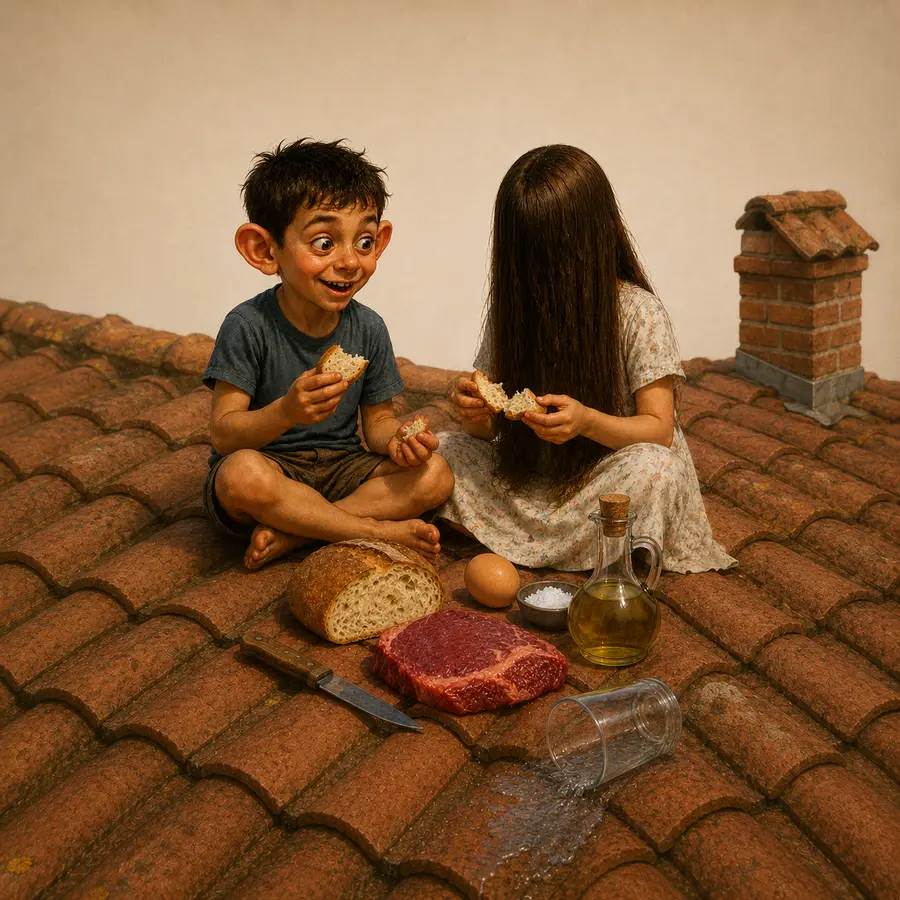
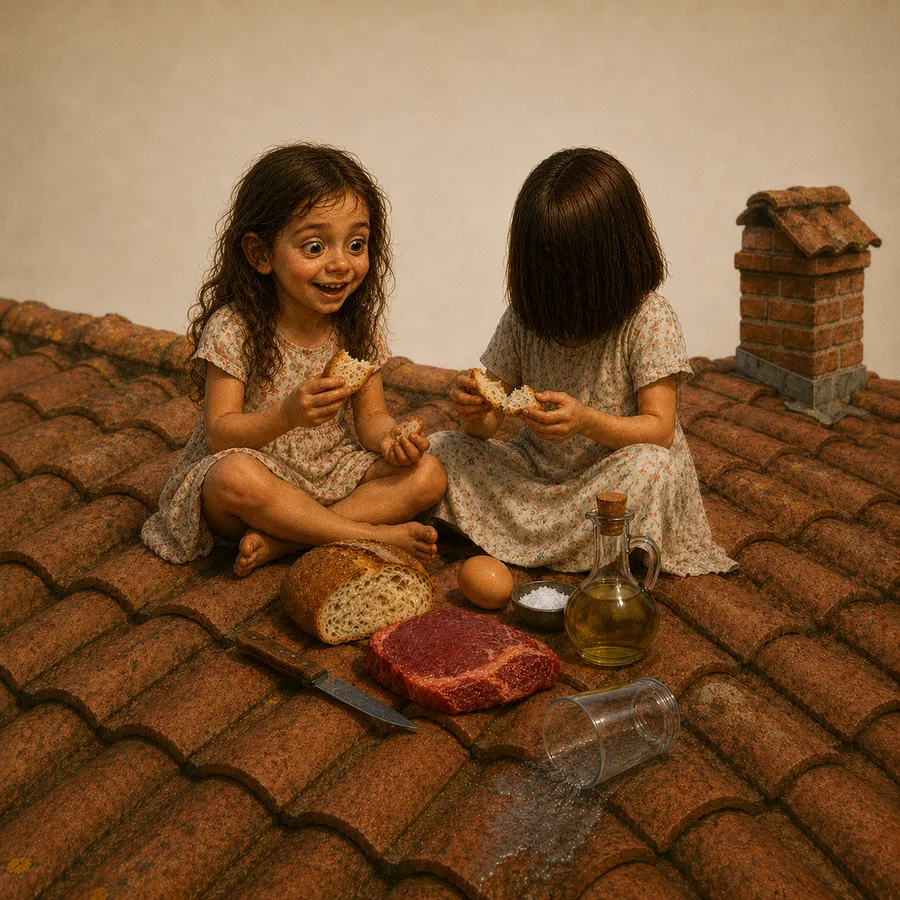
Breakfast scene: new image + "Zwei Mädchen" wording
Replace the rooftop breakfast image (the second child, formerly a boy, is
now clearly a girl so the all-das scene doesn't pull toward der Junge) and
rewrite the narrative as "Zwei Mädchen" — one whose hair hides her face,
the other with big eyes and ears. Drop das Kind (taught in other scenes)
and the "lange" hair descriptor (hair is shorter now). Scene is cleanly
all-das; das Mädchen reinforced.

diff --git a/src/data/scenes.ts b/src/data/scenes.ts
@@ -20,13 +20,12 @@ export const MEMORY_SCENES: MemoryScene[] = [
     title: "Frühstück auf dem Dach",
     image: "/scenes/das-1-dach.webp",
     narrativeDe:
-      "Ein Kind und ein Mädchen frühstücken auf dem Dach. Ein umgekipptes Glas liegt da, und Wasser ist daraus über das Dach verschüttet. Vor ihnen liegen ein Messer, ein frisches Brot, ein Ei, rohes Fleisch mit etwas Blut, Salz und Öl. Das lange Haar des Mädchens verdeckt ihr Gesicht. Das Kind hat große Augen und große Ohren.",
+      "Zwei Mädchen frühstücken auf dem Dach. Ein umgekipptes Glas liegt da, und Wasser ist daraus über das Dach verschüttet. Vor ihnen liegen ein Messer, ein frisches Brot, ein Ei, rohes Fleisch mit etwas Blut, Salz und Öl. Das Haar des einen Mädchens verdeckt ihr Gesicht; das andere hat große Augen und große Ohren.",
     narrativeEn:
-      "A child and a girl have breakfast on the roof. A tipped-over glass lies there, and water has spilled from it across the roof. In front of them lie a knife, a fresh loaf of bread, an egg, raw meat with a little blood, salt and oil. The girl's long hair hides her face. The child has big eyes and big ears.",
+      "Two girls have breakfast on the roof. A tipped-over glass lies there, and water has spilled from it across the roof. In front of them lie a knife, a fresh loaf of bread, an egg, raw meat with a little blood, salt and oil. One girl's hair hides her face; the other has big eyes and big ears.",
     words: [
       w("das", "Frühstück", "breakfast"),
       w("das", "Dach", "roof"),
-      w("das", "Kind", "child"),
       w("das", "Mädchen", "girl"),
       w("das", "Glas", "glass"),
       w("das", "Wasser", "water"),
